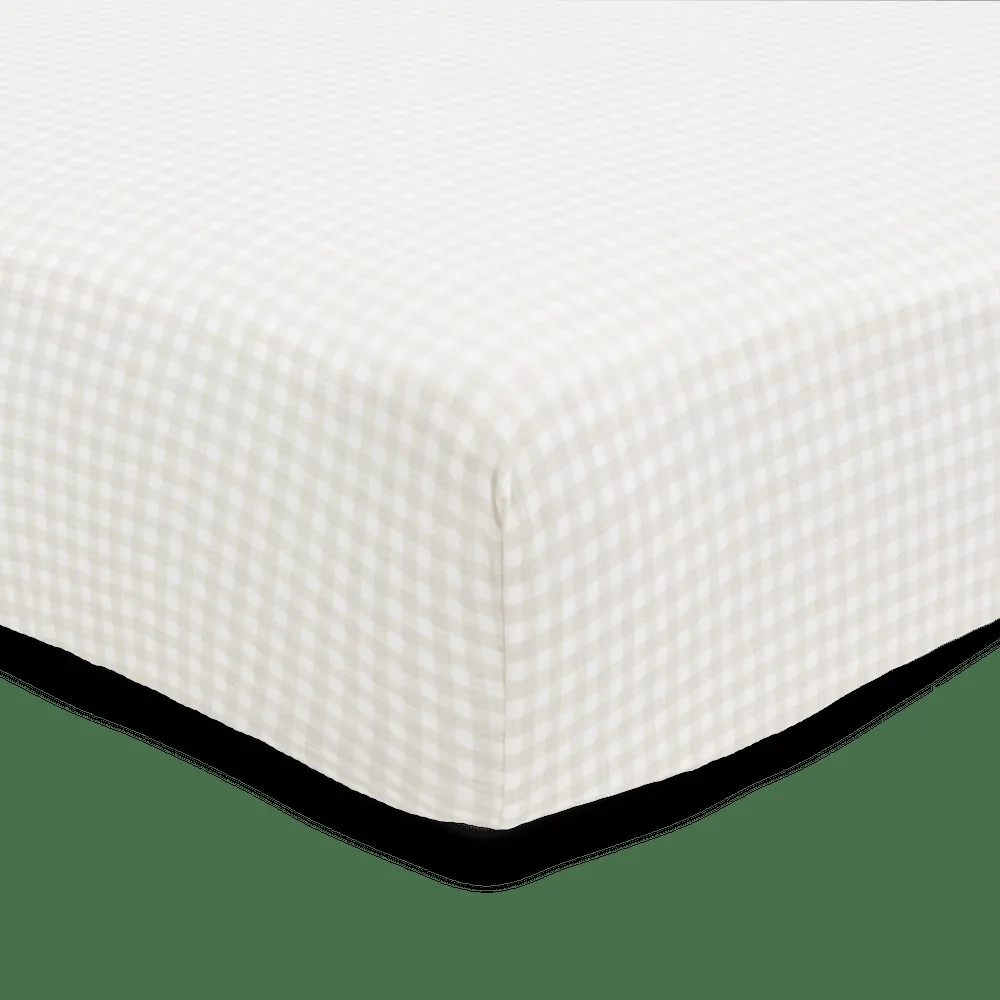
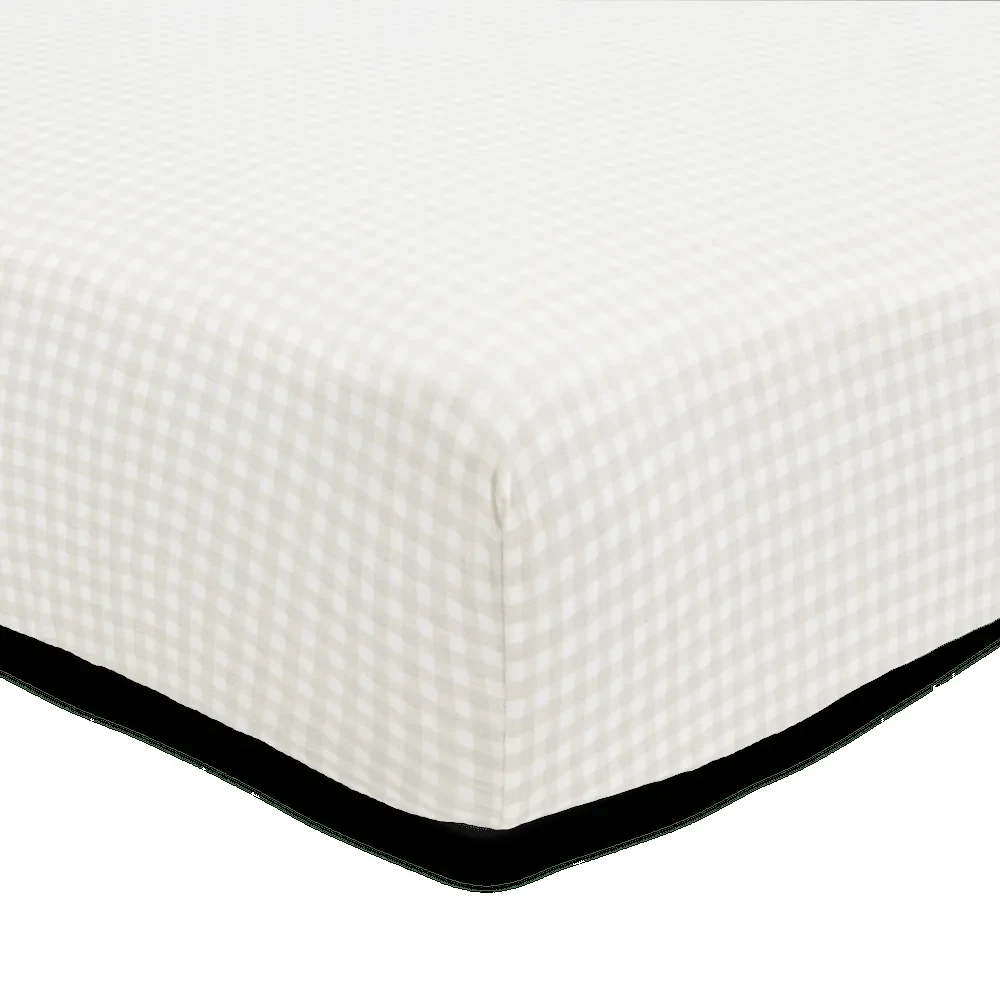
V9: product cards on paper tiles with a white image square; sheet photos on white instead of the green backdrop
Claude-Session: https://claude.ai/code/session_01Mw8g99dYZf3EJgEyFYdE9q

Changed region(s): [[0.0, 0.651, 1.0, 1.0]]

diff --git a/9/css/v8.css b/9/css/v8.css
@@ -197,11 +197,11 @@ main:focus { outline: none; }
 .pgrid { display: grid; grid-template-columns: repeat(4, minmax(0, 1fr)); gap: clamp(28px, 3vw, 48px) clamp(14px, 1.6vw, 28px); } /* each product its own tile, with air around it */
 @media (max-width: 899px) { .pgrid { grid-template-columns: repeat(2, minmax(0, 1fr)); } }
 /* product cards, as in the original V8: one light tile, quiet type, the image does the work */
-.pcard { position: relative; display: grid; grid-template-rows: auto 1fr; min-width: 0; background: var(--white); } /* white tiles; the whole product shows, nothing cropped */
-.pcard-media { position: relative; display: block; aspect-ratio: 4 / 4.4; overflow: hidden; isolation: isolate; }
+.pcard { position: relative; display: grid; grid-template-rows: auto 1fr; min-width: 0; background: var(--paper); } /* paper tiles; the image sits on white and shows the whole product */
+.pcard-media { position: relative; display: block; aspect-ratio: 4 / 4.4; overflow: hidden; isolation: isolate; background: var(--white); }
 .pcard-media img { position: absolute; inset: 14% 12% 10%; width: 76%; height: 76%; object-fit: contain; mix-blend-mode: multiply; transition: transform .7s var(--ease), opacity .4s; }
 .pcard:hover .pcard-media img { transform: scale(1.025); }
-.pcard-fig { position: relative; }
+.pcard-fig { position: relative; padding: clamp(10px, 1vw, 16px) clamp(10px, 1vw, 16px) 0; } /* white image square framed by the paper tile */
 /* finishing touches: store photos show the product in use, so they fill the tile */
 .pcard-media.is-photo img { mix-blend-mode: normal; }
 .pcard-media img.life { inset: 0; width: 100%; height: 100%; object-fit: cover; mix-blend-mode: normal; z-index: 2; opacity: 0; transform: scale(1.04); transition: opacity .5s var(--ease), transform 1.1s var(--ease); }

diff --git a/9/index.html b/9/index.html
@@ -16,7 +16,7 @@
 <link rel="preconnect" href="https://fonts.googleapis.com">
 <link rel="preconnect" href="https://fonts.gstatic.com" crossorigin>
 <link rel="stylesheet" href="https://fonts.googleapis.com/css2?family=Inter:ital,wght@0,400;0,500;0,600;0,700;0,800;1,500;1,600;1,800&display=swap">
-<link rel="stylesheet" href="css/v8.css?v=971">
+<link rel="stylesheet" href="css/v8.css?v=973">
 <script>document.documentElement.classList.add("js");</script>
 </head>
 <body>
